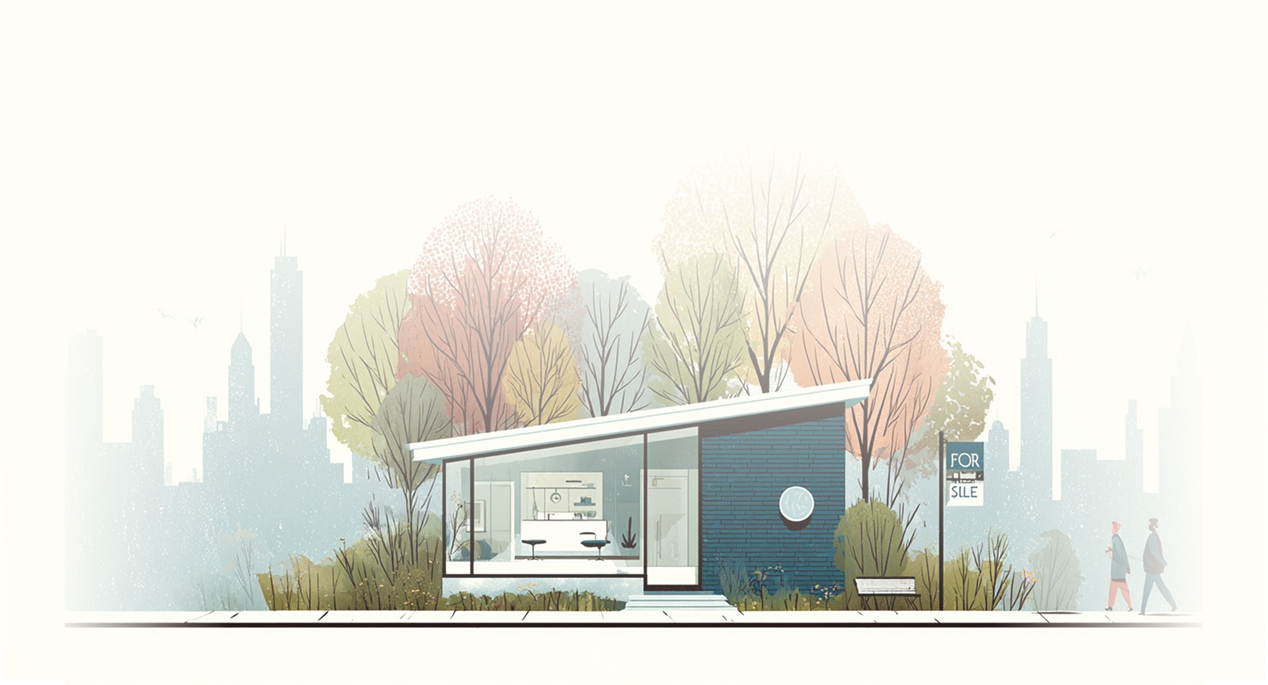
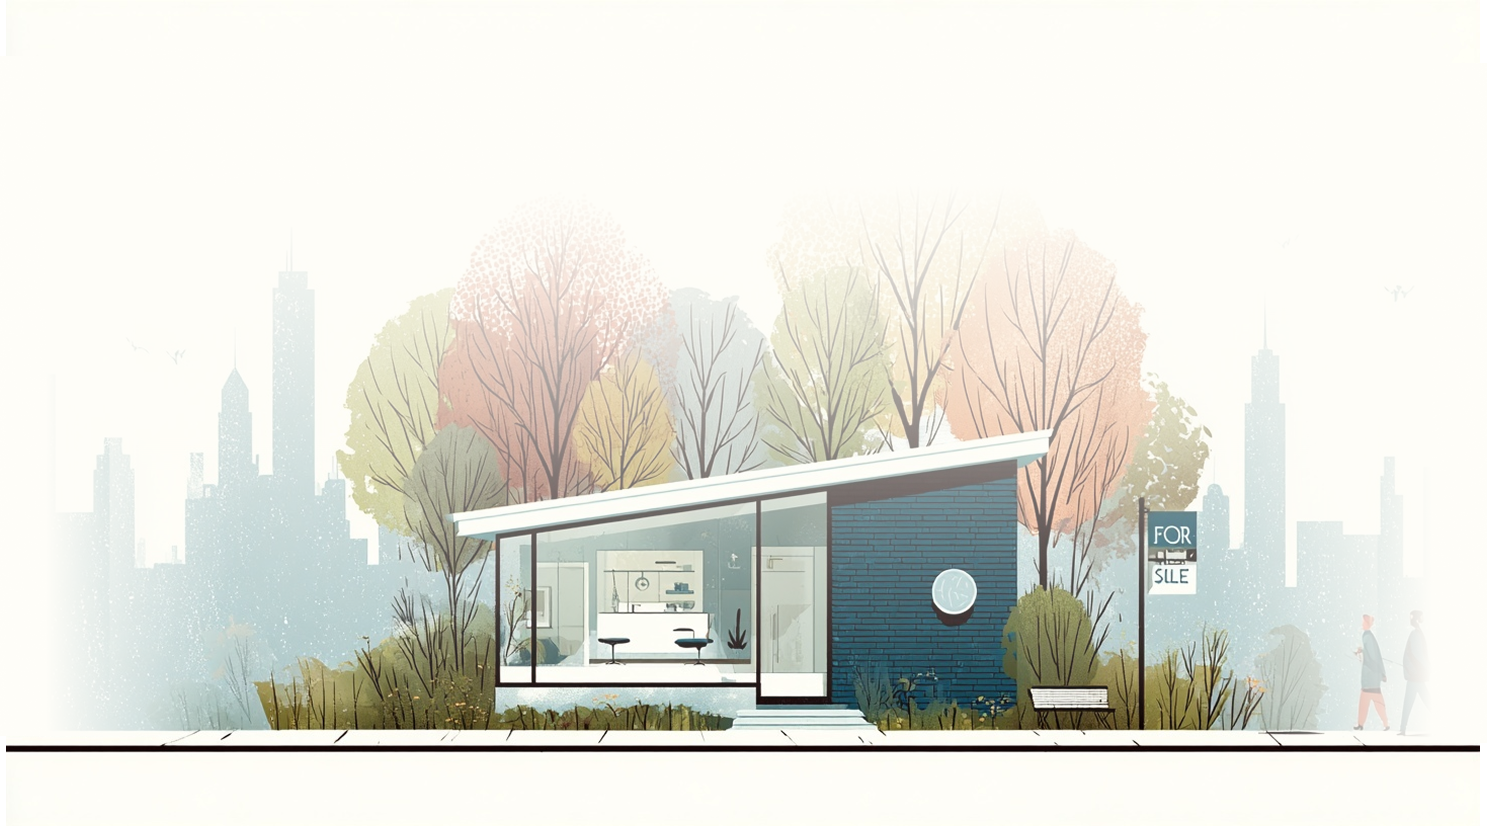
fix: Reposition dashboard cards for better clustering [AI]
- Moved cards closer to center, clustered around building
- Practice Valuation card positioned above building roof (center)
- Monthly Cashflow: Left-top position
- EBITDA Margin: Left-bottom position
- Patient Retention: Right-top position
- Collection Rate: Right-bottom position
- Updated practice graphic to latest version
- Cards now almost overlapping for better visual hierarchy

AI: Implemented precise percentage-based positioning
Human: Provided specific clustering requirements and layout guidance

Changed region(s): [[0.0, 0.3066, 1.0, 0.9197]]

diff --git a/app/page.tsx b/app/page.tsx
@@ -56,38 +56,10 @@ export default function LandingPage() {
                   className="w-full h-auto rounded-2xl"
                 />
                 
-                {/* Floating Dashboard Cards */}
+                {/* Floating Dashboard Cards - Clustered around building */}
                 <div className="absolute inset-0 pointer-events-none">
-                  {/* Monthly Cashflow Card - Top Left */}
-                  <div className="absolute top-4 left-2 md:top-6 md:left-4 animate-float-1">
-                    <div className="bg-white/95 backdrop-blur-sm border border-gray-200 rounded-xl p-3 shadow-lg w-[180px]">
-                      <div className="text-xs text-gray-500 mb-1">Monthly Cashflow</div>
-                      <div className="text-xl font-bold text-gray-900">$26.8k</div>
-                      <div className="flex items-center gap-1 text-xs">
-                        <span className="text-green-600 flex items-center gap-1">
-                          ↑ 8%
-                        </span>
-                        <span className="text-gray-500">Owner Take-Home Ready</span>
-                      </div>
-                    </div>
-                  </div>
-
-                  {/* EBITDA Margin Card - Left Side */}
-                  <div className="absolute top-20 left-2 md:top-32 md:left-4 animate-float-2">
-                    <div className="bg-white/95 backdrop-blur-sm border border-gray-200 rounded-xl p-3 shadow-lg w-[200px]">
-                      <div className="text-xs text-gray-500 mb-1">EBITDA Margin</div>
-                      <div className="text-xl font-bold text-gray-900">13.55%</div>
-                      <div className="flex items-center gap-1 text-xs">
-                        <span className="text-red-600 flex items-center gap-1">
-                          ↓ 46%
-                        </span>
-                        <span className="text-gray-500">Industry average: 25-35%</span>
-                      </div>
-                    </div>
-                  </div>
-
-                  {/* Practice Valuation Card - Center */}
-                  <div className="absolute top-1/2 left-1/2 transform -translate-x-1/2 -translate-y-1/2 animate-float-3">
+                  {/* Practice Valuation Card - Center/Top (above building roof) */}
+                  <div className="absolute top-[20%] left-1/2 transform -translate-x-1/2 animate-float-3 z-10">
                     <div className="bg-white/95 backdrop-blur-sm border border-gray-200 rounded-xl p-4 shadow-xl w-[240px]">
                       <div className="text-xs text-gray-500 mb-1">Practice Valuation</div>
                       <div className="text-2xl font-bold text-gray-900 mb-1">$2.4M</div>
@@ -100,8 +72,36 @@ export default function LandingPage() {
                     </div>
                   </div>
 
-                  {/* Patient Retention Card - Top Right */}
-                  <div className="absolute top-4 right-2 md:top-6 md:right-4 animate-float-4">
+                  {/* Monthly Cashflow Card - Left Top */}
+                  <div className="absolute top-[15%] left-[20%] transform -translate-x-1/2 animate-float-1">
+                    <div className="bg-white/95 backdrop-blur-sm border border-gray-200 rounded-xl p-3 shadow-lg w-[180px]">
+                      <div className="text-xs text-gray-500 mb-1">Monthly Cashflow</div>
+                      <div className="text-xl font-bold text-gray-900">$26.8k</div>
+                      <div className="flex items-center gap-1 text-xs">
+                        <span className="text-green-600 flex items-center gap-1">
+                          ↑ 8%
+                        </span>
+                        <span className="text-gray-500">Owner Take-Home Ready</span>
+                      </div>
+                    </div>
+                  </div>
+
+                  {/* EBITDA Margin Card - Left Bottom */}
+                  <div className="absolute top-[45%] left-[15%] transform -translate-x-1/2 animate-float-2">
+                    <div className="bg-white/95 backdrop-blur-sm border border-gray-200 rounded-xl p-3 shadow-lg w-[200px]">
+                      <div className="text-xs text-gray-500 mb-1">EBITDA Margin</div>
+                      <div className="text-xl font-bold text-gray-900">13.55%</div>
+                      <div className="flex items-center gap-1 text-xs">
+                        <span className="text-red-600 flex items-center gap-1">
+                          ↓ 46%
+                        </span>
+                        <span className="text-gray-500">Industry average: 25-35%</span>
+                      </div>
+                    </div>
+                  </div>
+
+                  {/* Patient Retention Card - Right Top */}
+                  <div className="absolute top-[15%] right-[20%] transform translate-x-1/2 animate-float-4">
                     <div className="bg-white/95 backdrop-blur-sm border border-gray-200 rounded-xl p-3 shadow-lg w-[180px]">
                       <div className="text-xs text-gray-500 mb-1">Patient Retention</div>
                       <div className="text-xl font-bold text-gray-900">82%</div>
@@ -114,8 +114,8 @@ export default function LandingPage() {
                     </div>
                   </div>
 
-                  {/* Collection Rate Card - Bottom Right */}
-                  <div className="absolute bottom-4 right-2 md:bottom-6 md:right-4 animate-float-5">
+                  {/* Collection Rate Card - Right Bottom */}
+                  <div className="absolute top-[50%] right-[10%] transform translate-x-1/2 animate-float-5">
                     <div className="bg-white/95 backdrop-blur-sm border border-gray-200 rounded-xl p-3 shadow-lg w-[200px]">
                       <div className="text-xs text-gray-500 mb-1">Collection Rate</div>
                       <div className="text-xl font-bold text-orange-600">73%</div>
